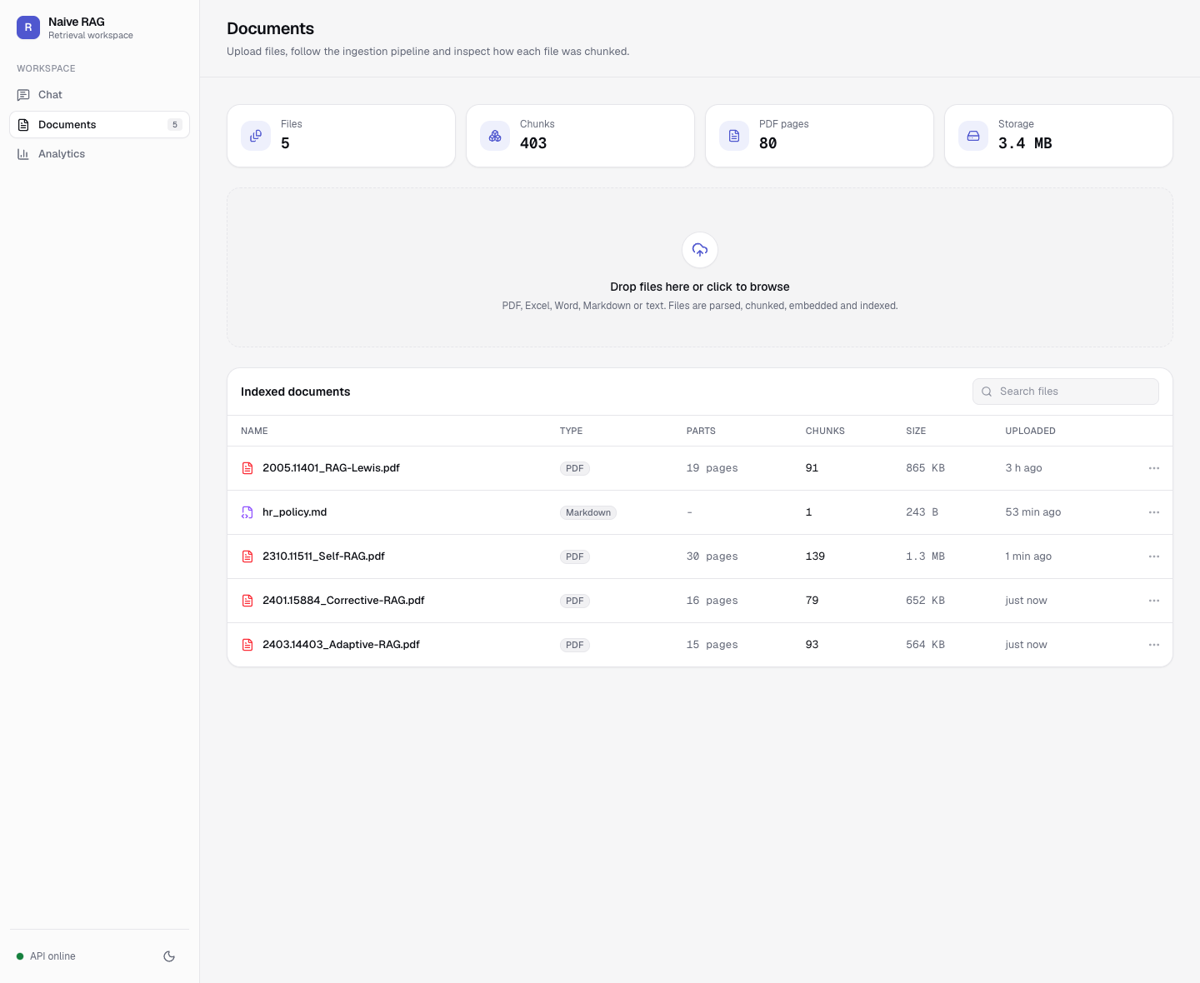
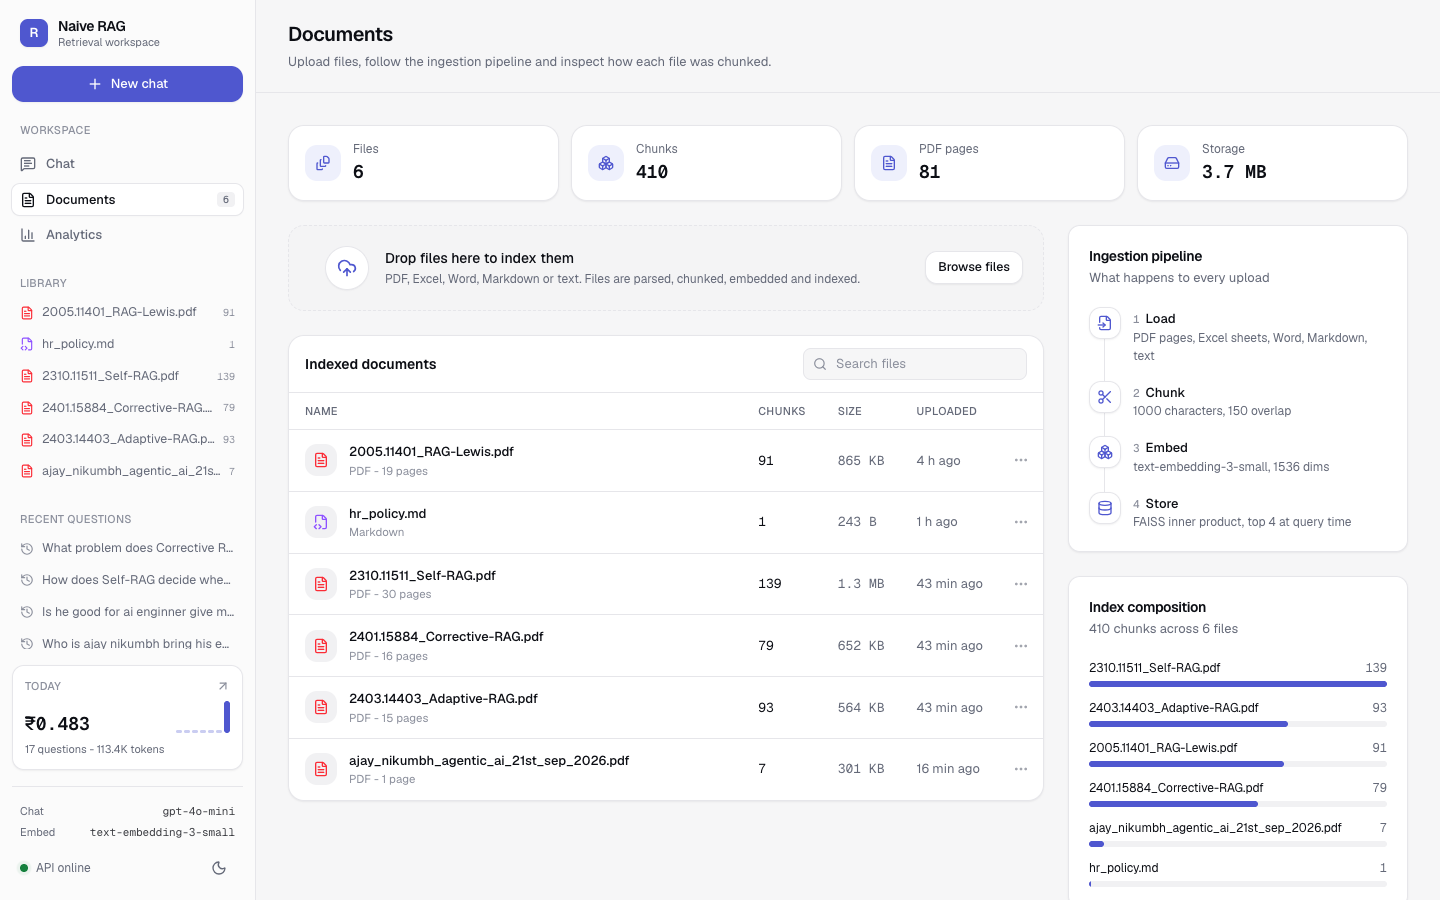
Redesign documents page with index overview column and compact table

diff --git a/01. Naive RAG/04. UI/src/features/documents/IndexOverview.jsx b/01. Naive RAG/04. UI/src/features/documents/IndexOverview.jsx
@@ -1,0 +1,149 @@
+/**
+ * Index overview.
+ *
+ * The right-hand column of the Documents page, with three cards:
+ *
+ *   - Ingestion pipeline: the four steps every upload goes through (load,
+ *     chunk, embed, store) with the settings the backend uses for each
+ *   - Index composition: how the chunks are spread over the files, as one
+ *     bar per file
+ *   - Recent ingestions: the latest uploads with chunks, time and cost in
+ *     rupees, from the usage records
+ *
+ * It explains what the index contains and how it was built, next to the
+ * table of files.
+ */
+
+// Imports
+import { Card, CardContent, CardDescription, CardHeader, CardTitle } from '@/components/ui/card'
+import { Boxes, Database, FileInput, Scissors } from 'lucide-react'
+import { useAnalytics, useHealth, useInrRate } from '@/api/queries'
+import { formatInr, formatMs, timeAgo } from '@/lib/format'
+import { Tooltip } from '@/components/ui/overlay'
+
+// The four ingestion steps and the setting shown for each
+function pipelineSteps(pipeline) {
+  return [
+    { icon: FileInput, name: 'Load', detail: 'PDF pages, Excel sheets, Word, Markdown, text' },
+    { icon: Scissors, name: 'Chunk', detail: pipeline ? `${pipeline.chunk_size} characters, ${pipeline.chunk_overlap} overlap` : '-' },
+    { icon: Boxes, name: 'Embed', detail: pipeline ? `${pipeline.embedding_model}, ${pipeline.embedding_dimensions} dims` : '-' },
+    { icon: Database, name: 'Store', detail: pipeline ? `FAISS inner product, top ${pipeline.top_k} at query time` : '-' },
+  ]
+}
+
+// Vertical list of pipeline steps joined by a line
+function PipelineCard() {
+
+  // Settings from the health endpoint
+  const { data } = useHealth()
+  const steps = pipelineSteps(data?.pipeline)
+
+  return (
+    <Card>
+      <CardHeader>
+        <div>
+          <CardTitle>Ingestion pipeline</CardTitle>
+          <CardDescription>What happens to every upload</CardDescription>
+        </div>
+      </CardHeader>
+      <CardContent>
+        <ol className="relative space-y-4 before:absolute before:top-2 before:bottom-2 before:left-[15px] before:w-px before:bg-border">
+          {steps.map(({ icon: Icon, name, detail }, index) => (
+            <li key={name} className="relative flex items-start gap-3">
+              <span className="z-10 grid size-8 shrink-0 place-items-center rounded-lg border bg-card text-primary shadow-card">
+                <Icon className="size-4" />
+              </span>
+              <div className="min-w-0 pt-0.5">
+                <p className="text-[13px] font-medium"><span className="mr-1.5 font-mono text-[11px] text-subtle-foreground">{index + 1}</span>{name}</p>
+                <p className="text-[12px] text-muted-foreground">{detail}</p>
+              </div>
+            </li>
+          ))}
+        </ol>
+      </CardContent>
+    </Card>
+  )
+}
+
+// One bar per file, longest first, scaled to the largest file
+function CompositionCard({ documents, totalChunks }) {
+
+  // Files with the most chunks first
+  const ordered = [...documents].sort((a, b) => b.chunks - a.chunks)
+  const peak = Math.max(1, ...ordered.map((doc) => doc.chunks))
+
+  return (
+    <Card>
+      <CardHeader>
+        <div>
+          <CardTitle>Index composition</CardTitle>
+          <CardDescription>{totalChunks} chunks across {documents.length} files</CardDescription>
+        </div>
+      </CardHeader>
+      <CardContent className="space-y-3">
+        {ordered.length === 0 && <p className="text-[12.5px] text-muted-foreground">Upload a file to build the index.</p>}
+        {ordered.map((doc) => {
+          const share = totalChunks ? Math.round((doc.chunks / totalChunks) * 100) : 0
+          return (
+            <Tooltip key={doc.source} content={`${doc.chunks} chunks, ${share}% of the index`}>
+              <div>
+                <div className="mb-1 flex items-baseline justify-between gap-3 text-[12px]">
+                  <span className="truncate">{doc.source}</span>
+                  <span className="shrink-0 font-mono text-muted-foreground tabular-nums">{doc.chunks}</span>
+                </div>
+                <div className="h-1.5 overflow-hidden rounded-full bg-muted">
+                  <div className="h-full rounded-full bg-primary" style={{ width: `${(doc.chunks / peak) * 100}%` }} />
+                </div>
+              </div>
+            </Tooltip>
+          )
+        })}
+      </CardContent>
+    </Card>
+  )
+}
+
+// Latest uploads from the usage records
+function RecentIngestionsCard() {
+
+  // Ingestion runs, newest first
+  const { data } = useAnalytics()
+  const rate = useInrRate()
+  const runs = (data?.recent ?? []).filter((run) => run.kind === 'ingest').slice(0, 5)
+
+  return (
+    <Card>
+      <CardHeader>
+        <div>
+          <CardTitle>Recent ingestions</CardTitle>
+          <CardDescription>Time and embedding cost per upload</CardDescription>
+        </div>
+      </CardHeader>
+      <CardContent className="pt-3">
+        {runs.length === 0 && <p className="text-[12.5px] text-muted-foreground">No uploads recorded yet.</p>}
+        <ul className="divide-y">
+          {runs.map((run) => (
+            <li key={`${run.time}-${run.file}`} className="flex items-center justify-between gap-3 py-2.5">
+              <div className="min-w-0">
+                <p className="truncate text-[12.5px] font-medium" title={run.file}>{run.file}</p>
+                <p className="text-[11.5px] text-subtle-foreground">{timeAgo(run.time)} - {run.chunks} chunks - {formatMs(run.latency_ms)}</p>
+              </div>
+              <span className="shrink-0 font-mono text-[12px] tabular-nums">{formatInr(run.cost_usd * rate)}</span>
+            </li>
+          ))}
+        </ul>
+      </CardContent>
+    </Card>
+  )
+}
+
+// Right column of the Documents page
+export default function IndexOverview({ documents, totalChunks }) {
+  return (
+    <div className="space-y-6">
+      <PipelineCard />
+      <CompositionCard documents={documents} totalChunks={totalChunks} />
+      <RecentIngestionsCard />
+    </div>
+  )
+}

diff --git a/01. Naive RAG/04. UI/src/features/documents/DocumentsTable.jsx b/01. Naive RAG/04. UI/src/features/documents/DocumentsTable.jsx
@@ -1,8 +1,9 @@
 /**
  * Documents table.
  *
- * This file lists every indexed file with its type, pages or sheets, chunks,
- * size and upload time. A search box filters by name. Clicking a row opens
+ * This file lists every indexed file: name with its type and pages or sheets
+ * underneath, chunks, size and upload time. Four columns keep the table
+ * narrow enough to sit next to the index overview without scrolling. A search box filters by name. Clicking a row opens
  * the document drawer; the row menu offers Open and Delete, and Delete asks
  * for confirmation first. Loading shows skeleton rows, an empty index shows
  * a short call to action.
@@ -14,13 +15,12 @@ import { Ellipsis, Eye, Search, Trash2 } from 'lucide-react'
 import { formatBytes, plural, timeAgo } from '@/lib/format'
 import { useDeleteDocument } from '@/api/queries'
 import { Skeleton } from '@/components/ui/misc'
-import { Badge } from '@/components/ui/badge'
 import { fileType } from './fileTypes'
 import { useState } from 'react'
 import { toast } from 'sonner'
 
 // Column headings
-const COLUMNS = ['Name', 'Type', 'Parts', 'Chunks', 'Size', 'Uploaded', '']
+const COLUMNS = ['Name', 'Chunks', 'Size', 'Uploaded', '']
 
 // Indexed documents with search and row actions
 export default function DocumentsTable({ documents, isPending, onOpen }) {
@@ -90,14 +90,15 @@ export default function DocumentsTable({ documents, isPending, onOpen }) {
               const { icon: Icon, color, label, part } = fileType(doc.file_type)
               return (
                 <tr key={doc.source} onClick={() => onOpen(doc)} className="group cursor-pointer border-b whitespace-nowrap transition-colors last:border-0 hover:bg-accent/60">
-                  <td className="max-w-80 px-4 py-3">
-                    <div className="flex items-center gap-2.5">
-                      <Icon className={`size-4 shrink-0 ${color}`} />
-                      <span className="truncate font-medium">{doc.source}</span>
+                  <td className="w-full max-w-0 px-4 py-3">
+                    <div className="flex items-center gap-3">
+                      <span className="grid size-8 shrink-0 place-items-center rounded-lg bg-muted"><Icon className={`size-4 ${color}`} /></span>
+                      <div className="min-w-0">
+                        <p className="truncate font-medium" title={doc.source}>{doc.source}</p>
+                        <p className="text-[11.5px] text-subtle-foreground">{label}{part ? ` - ${plural(doc.parts, part)}` : ''}</p>
+                      </div>
                     </div>
                   </td>
-                  <td className="px-4 py-3"><Badge>{label}</Badge></td>
-                  <td className="px-4 py-3 font-mono text-muted-foreground tabular-nums">{part ? plural(doc.parts, part) : '-'}</td>
                   <td className="px-4 py-3 font-mono tabular-nums">{doc.chunks}</td>
                   <td className="px-4 py-3 font-mono text-muted-foreground tabular-nums">{formatBytes(doc.size_bytes)}</td>
                   <td className="px-4 py-3 whitespace-nowrap text-muted-foreground">{timeAgo(doc.uploaded_at)}</td>

diff --git a/01. Naive RAG/04. UI/src/features/documents/DocumentsPage.jsx b/01. Naive RAG/04. UI/src/features/documents/DocumentsPage.jsx
@@ -2,8 +2,9 @@
  * Documents page.
  *
  * This file is the ingestion workspace: four summary numbers about the index
- * (files, chunks, pages, storage), the upload panel with the pipeline
- * breakdown, and the table of indexed documents. Opening a row shows the
+ * (files, chunks, pages, storage), then the upload panel and the table of
+ * indexed documents on the left, and on the right the index overview (the
+ * ingestion pipeline and its settings, chunks per file, recent ingestions). Opening a row shows the
  * document drawer with the PDF preview and the chunks.
  */
 
@@ -14,6 +15,7 @@ import PageHeader from '@/components/layout/PageHeader'
 import DocumentDrawer from './DocumentDrawer'
 import DocumentsTable from './DocumentsTable'
 import { useDocuments } from '@/api/queries'
+import IndexOverview from './IndexOverview'
 import { useLocation } from 'react-router'
 import UploadPanel from './UploadPanel'
 import { useState } from 'react'
@@ -67,10 +69,13 @@ export default function DocumentsPage() {
           <Stat icon={HardDrive} label="Storage" value={formatBytes(bytes)} />
         </div>
 
-        {/* Upload and documents side by side on wide screens */}
-        <div className="grid items-start gap-6 2xl:grid-cols-[minmax(0,440px)_minmax(0,1fr)]">
-          <UploadPanel />
-          <DocumentsTable documents={documents} isPending={isPending} onOpen={setOpen} />
+        {/* Upload and table on the left, how the index was built on the right */}
+        <div className="grid items-start gap-6 xl:grid-cols-[minmax(0,1fr)_340px]">
+          <div className="min-w-0 space-y-6">
+            <UploadPanel />
+            <DocumentsTable documents={documents} isPending={isPending} onOpen={setOpen} />
+          </div>
+          <IndexOverview documents={documents} totalChunks={data?.total_chunks ?? 0} />
         </div>
       </div>
 

diff --git a/01. Naive RAG/04. UI/src/features/documents/UploadPanel.jsx b/01. Naive RAG/04. UI/src/features/documents/UploadPanel.jsx
@@ -152,18 +152,19 @@ export default function UploadPanel() {
       <div
         {...getRootProps()}
         className={cn(
-          'group relative flex cursor-pointer flex-col items-center justify-center gap-3 rounded-xl border border-dashed px-6 py-10 text-center transition-colors',
+          'group relative flex cursor-pointer items-center gap-4 rounded-xl border border-dashed px-5 py-5 transition-colors',
           isDragActive ? 'border-primary bg-primary-soft' : 'border-input bg-muted/40 hover:border-primary/60 hover:bg-primary-soft/50',
         )}
       >
         <input {...getInputProps()} />
-        <div className="grid size-11 place-items-center rounded-full border bg-card shadow-card transition-transform group-hover:-translate-y-0.5">
+        <div className="grid size-11 shrink-0 place-items-center rounded-full border bg-card shadow-card transition-transform group-hover:-translate-y-0.5">
           <CloudUpload className="size-5 text-primary" />
         </div>
-        <div>
-          <p className="text-sm font-medium">{isDragActive ? 'Drop to upload' : 'Drop files here or click to browse'}</p>
-          <p className="mt-1 text-[12px] text-muted-foreground">PDF, Excel, Word, Markdown or text. Files are parsed, chunked, embedded and indexed.</p>
+        <div className="min-w-0 flex-1">
+          <p className="text-sm font-medium">{isDragActive ? 'Drop to upload' : 'Drop files here to index them'}</p>
+          <p className="mt-0.5 text-[12px] text-muted-foreground">PDF, Excel, Word, Markdown or text. Files are parsed, chunked, embedded and indexed.</p>
         </div>
+        <span className="hidden shrink-0 rounded-lg border bg-card px-3 py-1.5 text-[12.5px] font-medium shadow-card sm:inline">Browse files</span>
       </div>
 
       {/* Upload queue */}

diff --git a/01. Naive RAG/04. UI/docs/05. Documents and Ingestion.md b/01. Naive RAG/04. UI/docs/05. Documents and Ingestion.md
@@ -20,18 +20,32 @@ Backend: [API docs 13, 20, 22 and 23](../../03.%20API/docs/)
 
 ## Layout
 
-<img src="images/05-documents-table.png" width="100%" alt="Documents page with five indexed files">
+<img src="images/05-documents-table.png" width="100%" alt="Documents page with the upload zone, the table and the index overview">
 
 <table width="100%">
-<thead><tr><th><img src="../../../assets/spacer.png" align="right" width="272" height="1">Area</th><th><img src="../../../assets/spacer.png" align="right" width="1127" height="1">Content</th></tr></thead>
+<thead><tr><th><img src="../../../assets/spacer.png" align="right" width="334" height="1">Area</th><th><img src="../../../assets/spacer.png" align="right" width="1065" height="1">Content</th></tr></thead>
 <tbody>
 <tr><td>Summary</td><td>Files, chunks, PDF pages and storage, from GET /documents</td></tr>
-<tr><td>Upload panel</td><td>Drop zone, upload queue, pipeline breakdown of the latest file</td></tr>
-<tr><td>Documents table</td><td>All indexed files with search and actions</td></tr>
+<tr><td>Upload zone (left)</td><td>One compact row: icon, accepted types and a "Browse files" button; the queue and the pipeline breakdown of the latest file appear under it</td></tr>
+<tr><td>Documents table (left)</td><td>All indexed files with search and actions</td></tr>
+<tr><td>Index overview (right)</td><td>Ingestion pipeline with the live settings, index composition (chunks per file) and recent ingestions with their cost in rupees</td></tr>
 </tbody>
 </table>
 
-On screens 1536px and wider, the upload panel and the table sit side by side; below that, the upload panel spans the width above the table so no table column is ever cut.
+The first version stacked a tall drop zone and the table across the full width, which left a large empty area under the table. The page now uses two columns from 1280 px: the work (upload and table) on the left and the explanation of the index on the right. Below 1280 px the overview moves under the table.
+
+### Index overview
+
+<table width="100%">
+<thead><tr><th><img src="../../../assets/spacer.png" align="right" width="193" height="1">Card</th><th><img src="../../../assets/spacer.png" align="right" width="753" height="1">Content</th><th><img src="../../../assets/spacer.png" align="right" width="452" height="1">Data</th></tr></thead>
+<tbody>
+<tr><td>Ingestion pipeline</td><td>Load, Chunk, Embed, Store, each with the setting the backend uses: "1000 characters, 150 overlap", "text-embedding-3-small, 1536 dims", "FAISS inner product, top 4 at query time"</td><td>GET /health pipeline settings (API doc 03)</td></tr>
+<tr><td>Index composition</td><td>One bar per file, most chunks first, scaled to the largest file; hover shows the share of the index</td><td>GET /documents</td></tr>
+<tr><td>Recent ingestions</td><td>Last 5 uploads with time, chunks, duration and cost in rupees</td><td>GET /analytics recent runs</td></tr>
+</tbody>
+</table>
+
+Showing the settings next to the files answers the questions people ask when they look at chunks ("why is this paper 139 chunks?"): 30 pages of dense text at 1000 characters per chunk with 150 characters of overlap.
 
 ## Upload panel
 
@@ -57,14 +71,13 @@ The card uses the real `steps` from the API (doc 23): each step has an icon, a p
 <table width="100%">
 <thead><tr><th><img src="../../../assets/spacer.png" align="right" width="334" height="1">Column</th><th><img src="../../../assets/spacer.png" align="right" width="1065" height="1">Content</th></tr></thead>
 <tbody>
-<tr><td>Name</td><td>Type icon (PDF red, Excel green, Word blue, Markdown violet) and file name</td></tr>
-<tr><td>Type</td><td>Badge</td></tr>
-<tr><td>Parts</td><td>"19 pages" or "1 sheet"; "-" for whole-file types</td></tr>
+<tr><td>Name</td><td>Type icon on a tile (PDF red, Excel green, Word blue, Markdown violet), the file name, and under it the type and "19 pages" or "1 sheet"</td></tr>
 <tr><td>Chunks, Size, Uploaded</td><td>Monospaced numbers; size as KB or MB; upload time as "3 h ago"</td></tr>
 <tr><td>Actions</td><td>Menu with Open and Delete (visible on row hover)</td></tr>
 </tbody>
 </table>
 
+- Type and parts sit under the name instead of in their own columns, so four columns fit next to the index overview without horizontal scrolling.
 - The search box filters by file name as you type.
 - Clicking a row opens the drawer. The action cell stops the click, so opening the menu does not also open the drawer.
 - Delete opens a confirmation dialog (Radix AlertDialog) that says what will happen; after confirming, a toast reports how many chunks were removed.
